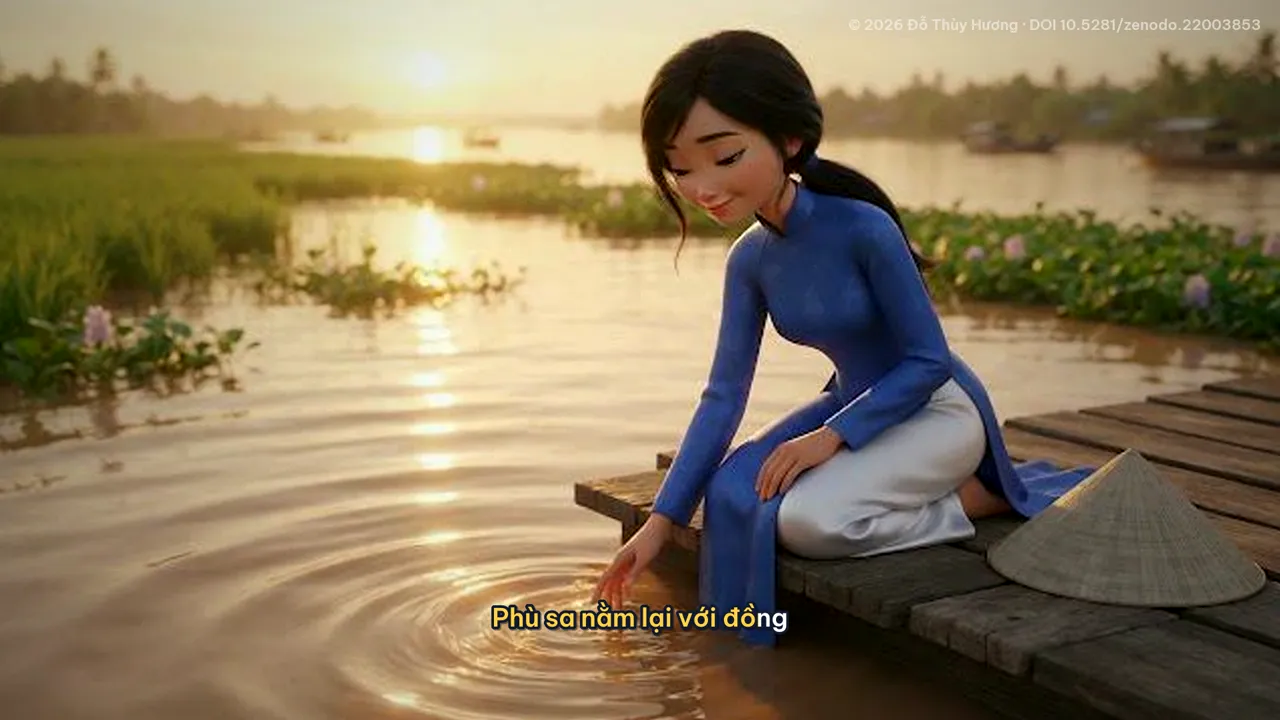
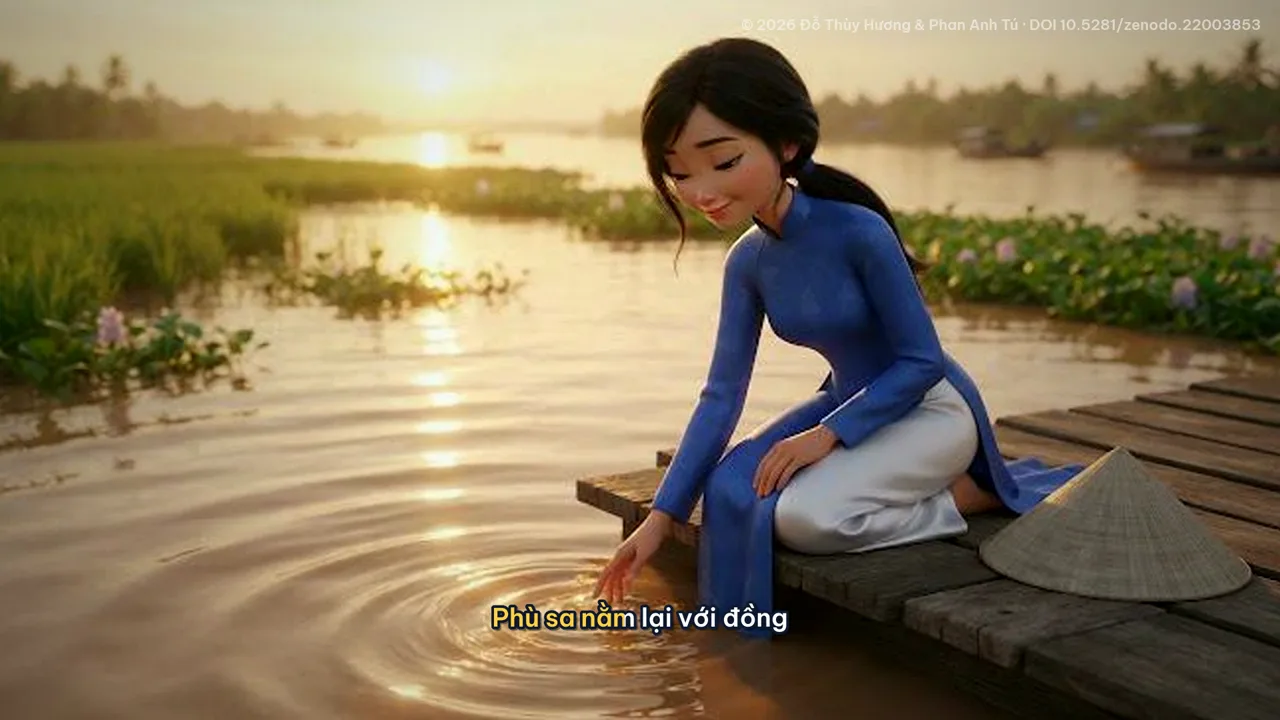
Nhạc: MV «Bến Phù Sa» 3D trỏ sang bản mới có bản quyền ghi chung
Bản đăng lại (0ndsTOE6VlE) ghi «© 2026 Đỗ Thùy Hương & Phan Anh Tú» ở góc và thẻ cuối;
ảnh bìa cắt lại từ bản ấy cho khớp dòng ©. Đã kiểm: check-site.py đạt. sw.js: jshuong-v241.

diff --git a/music.html b/music.html
@@ -2191,7 +2191,7 @@ Ta trở về bờ này</p>
       </div>
     </div>
     <figure class="songclip" style="margin-top:18px">
-      <button type="button" class="mv-yt" data-yt="6GjXzt6jofo">
+      <button type="button" class="mv-yt" data-yt="0ndsTOE6VlE">
         <img src="assets/video/mv-ben-phu-sa-3d-poster.webp" width="1280" height="720" loading="lazy" decoding="async"
              alt="Ảnh bìa MV «Bến Phù Sa» bản hoạt hình 3D: cô gái áo dài xanh ngồi trên bến gỗ, chạm tay xuống mặt sông lúc hoàng hôn">
         <span class="mv-play" aria-hidden="true">&#9654;</span>

diff --git a/sw.js b/sw.js
@@ -1,5 +1,5 @@
 /* Service worker - Je m'appelle Hương (trang học thuật cá nhân) */
-const CACHE = 'jshuong-v240';
+const CACHE = 'jshuong-v241';
 const CORE = [
   './',
   'index.html',
